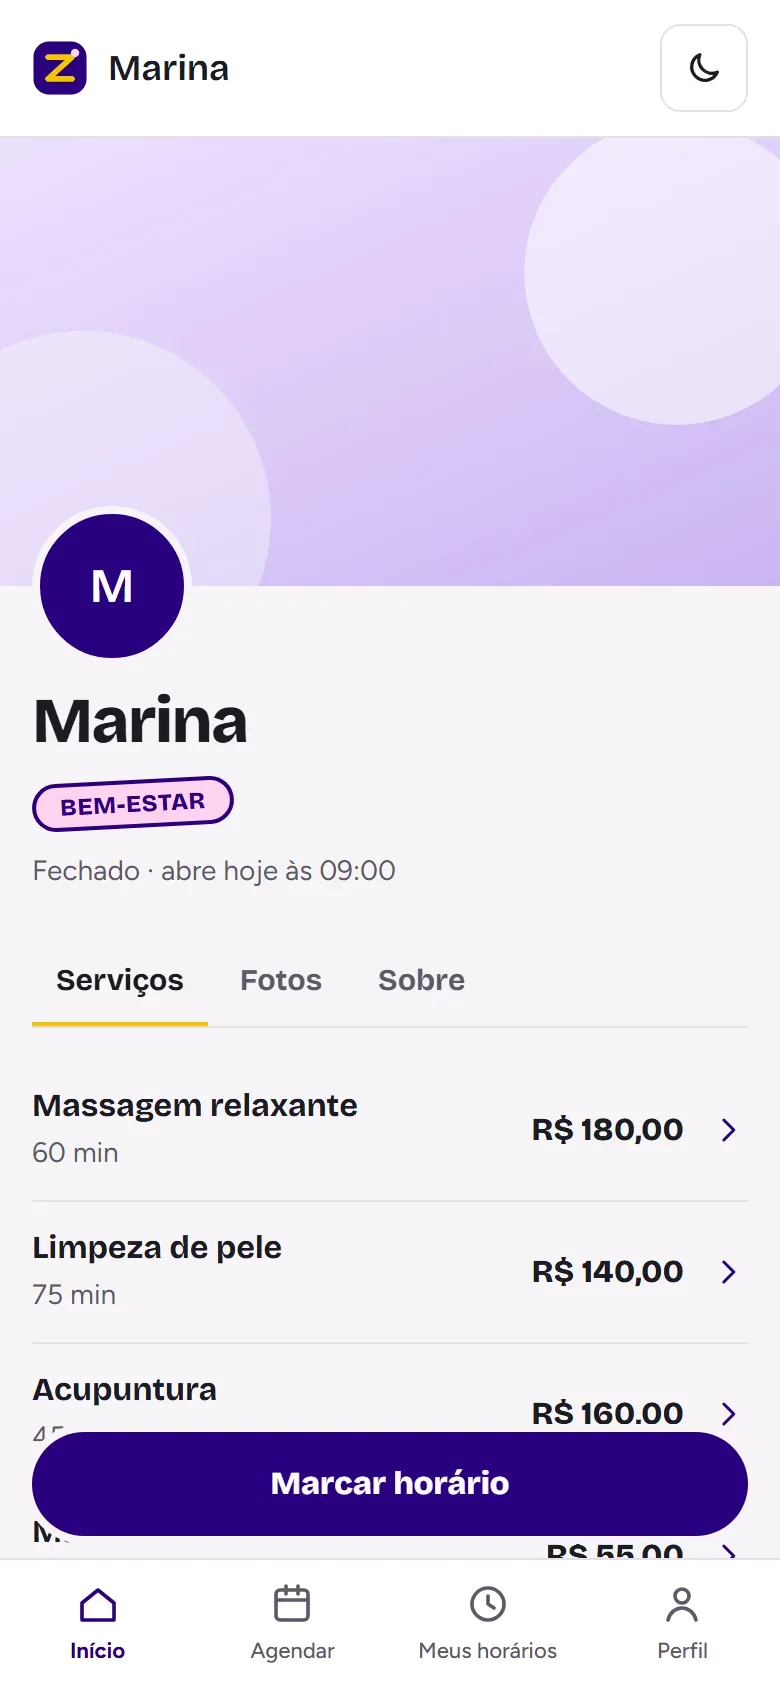
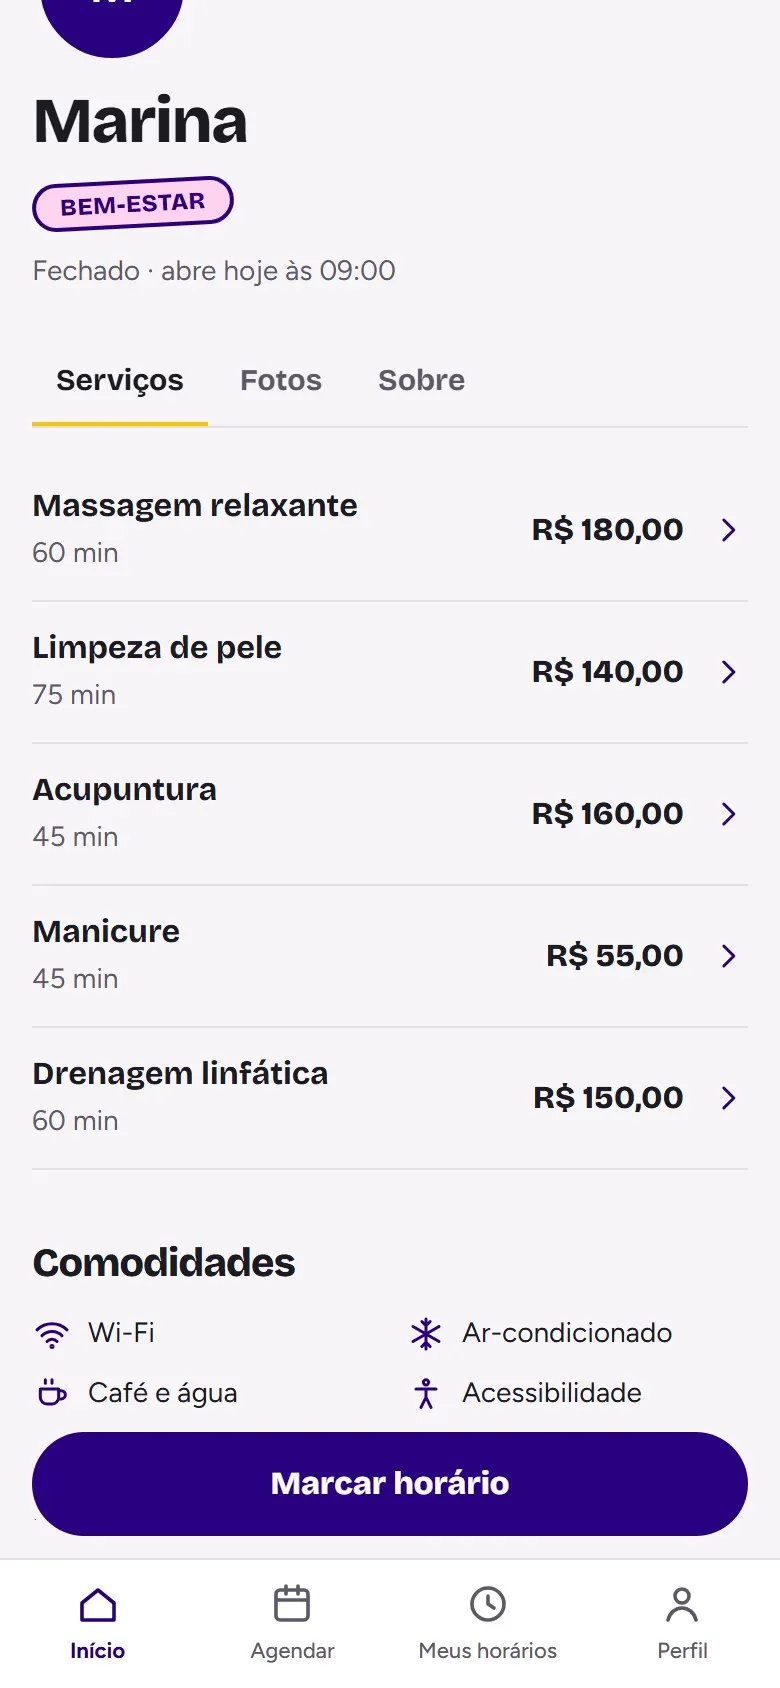
fix(landing): ajustes da revisão final
O preço troca porque / renderiza a cada requisição (connection() no layout), então
sai o revalidate e os comentários dizem isso. llms.txt e alt da página descrevem o
que existe. Foto do celular sem preço sob o botão flutuante. Preços com De/por para
leitor de tela e sizes da imagem de desktop conforme o layout.

diff --git a/src/app/landing/pricing-section.tsx b/src/app/landing/pricing-section.tsx
@@ -26,7 +26,8 @@ const LOOK: Record<
 };
 
 // The plans and their prices. The launch price shows until the switch-over
-// date; the page revalidates hourly so the change needs no deploy.
+// date. The switch relies on "/" being rendered per request (connection() in
+// the root layout); caching "/" would break it.
 export function PricingSection() {
   const { launch, plans } = pricingFor(new Date());
 
@@ -86,12 +87,18 @@ export function PricingSection() {
                     </p>
                     <div className="mt-4 min-h-6 text-base font-semibold opacity-70">
                       {plan.regularPrice ? (
-                        <s>
-                          <span>{plan.regularPrice}</span>/mês
-                        </s>
+                        <>
+                          <span className="sr-only">De </span>
+                          <s>
+                            <span>{plan.regularPrice}</span>/mês
+                          </s>
+                        </>
                       ) : null}
                     </div>
                     <p className="font-heading leading-[0.9] font-extrabold">
+                      {plan.regularPrice ? (
+                        <span className="sr-only">por </span>
+                      ) : null}
                       <span className="text-[clamp(3rem,15vw,4.75rem)] [font-stretch:75%]">
                         {plan.price}
                       </span>

diff --git a/src/app/landing/inside-tabs.tsx b/src/app/landing/inside-tabs.tsx
@@ -113,7 +113,11 @@ export function InsideTabs({ tabs }: { tabs: InsideTab[] }) {
                   src={tab.desktop.src}
                   alt={tab.desktop.alt}
                   {...DESKTOP_SIZE}
-                  sizes="(min-width: 1152px) 720px, (min-width: 768px) 55vw, 100vw"
+                  sizes={
+                    tab.phone
+                      ? "(min-width: 1152px) 860px, (min-width: 768px) calc(100vw - 280px), 100vw"
+                      : "(min-width: 1152px) 1104px, 100vw"
+                  }
                   className="block h-auto w-full"
                 />
               </div>

diff --git a/src/app/landing/inside-section.tsx b/src/app/landing/inside-section.tsx
@@ -34,7 +34,7 @@ const TABS: InsideTab[] = [
     caption: "Sua página, do seu jeito",
     desktop: {
       src: `${BASE}/pagina-desktop.webp`,
-      alt: "Página da clínica no computador, com os serviços, o botão de agendar e as avaliações",
+      alt: "Página da clínica no computador, com os serviços, e o botão de agendar",
     },
     phone: {
       src: `${BASE}/pagina-celular.webp`,

diff --git a/src/app/page.tsx b/src/app/page.tsx
@@ -41,10 +41,6 @@ export async function generateMetadata(): Promise<Metadata> {
   };
 }
 
-// The launch prices end on a fixed date: regenerate hourly so the page
-// switches over without a deploy.
-export const revalidate = 3600;
-
 // Tells search engines what Zemana is (structured data, schema.org).
 function zemanaJsonLd(description: string) {
   return {
